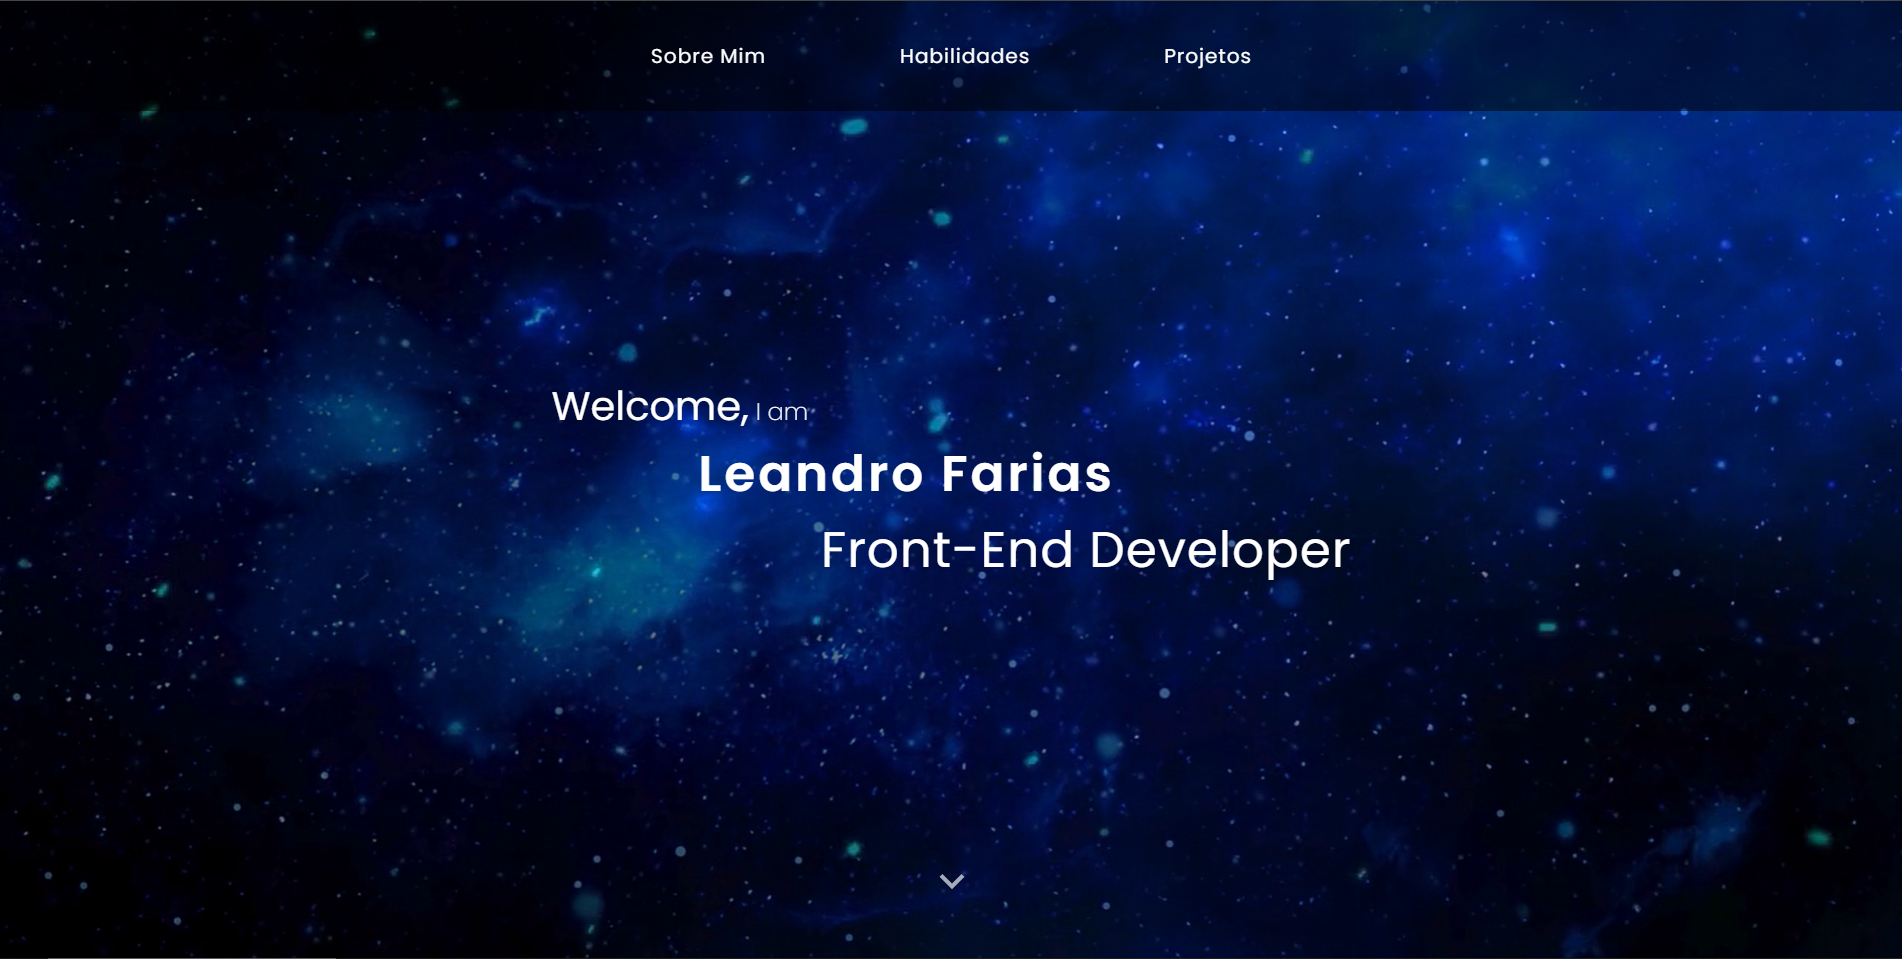
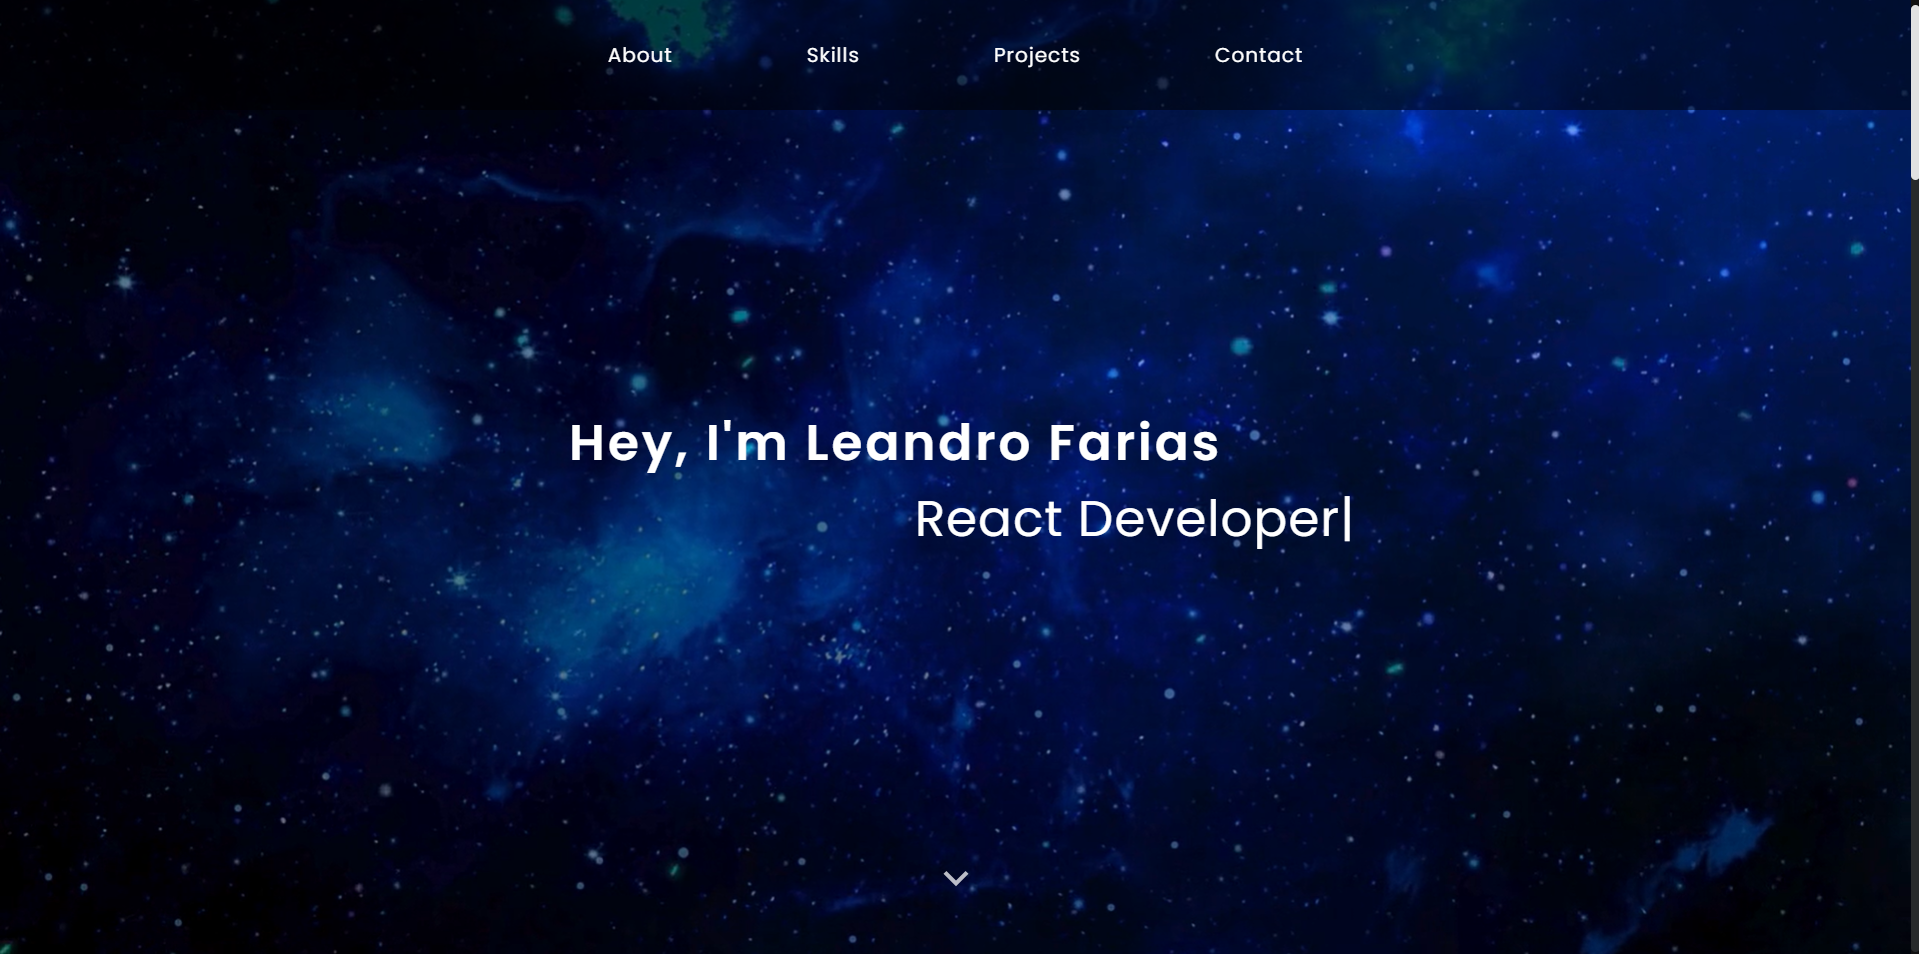
gif

diff --git a/README.md b/README.md
@@ -21,4 +21,4 @@
 
 ### 📸 Preview
 
-<img src="src/assets/portfolio.png">
+<img src="src/assets/readme.gif">
